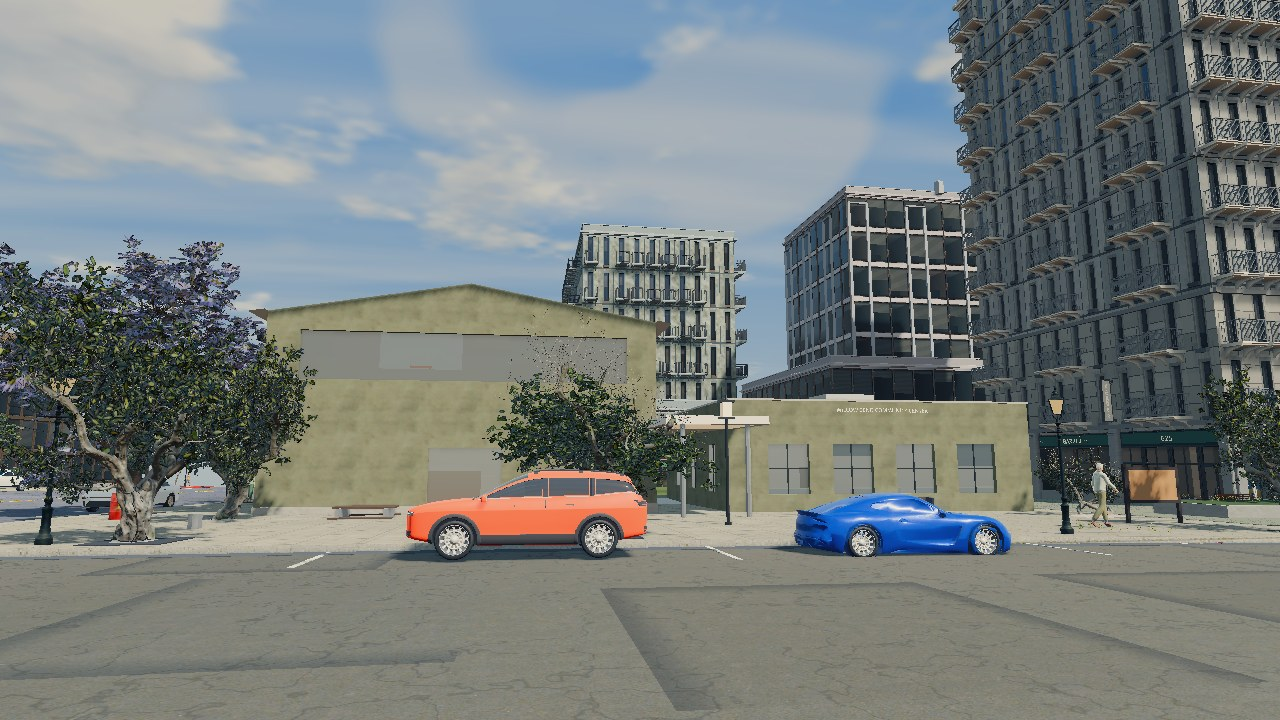
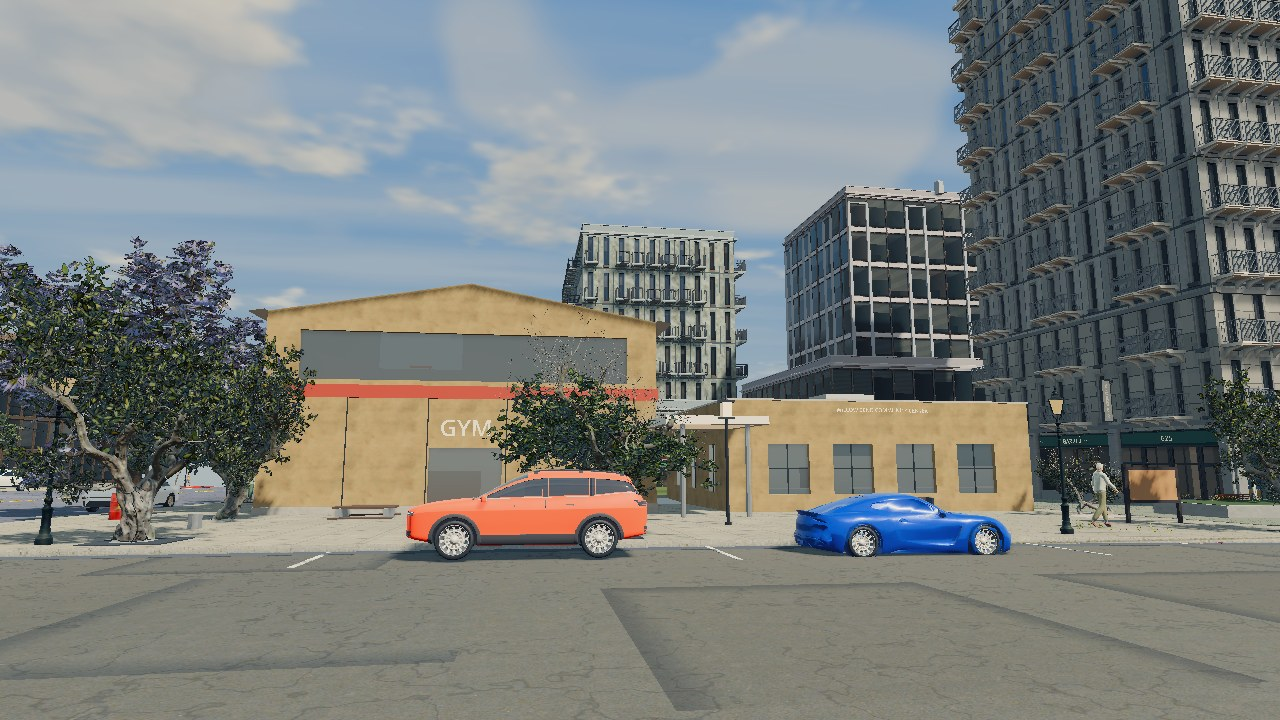
civic-buildings: tuned stills

diff --git a/README.md b/README.md
@@ -9,9 +9,10 @@ stills, seed 1337; the night ones use block_shot's crude NIGHT=1 lighting (not D
   the kerb by the blue collection boxes.
 - 06: the post office wide: brick front, flag, lawn, kerb truck.
 - 07: a mid-century branch library (glass pavilion, breeze block, stone name wall).
-- 08: a community centre (hall and wing).
+- 08 / 08b: a community centre (hall with its gable variant, wing, entry canopy) and from above.
 - 09 / 10: a city services office (pier colonnade, fins, flags) from the street and above.
 - 11 / 12 / 13: night (libraries close at 20:00: their rooms go dark but the lamps stay lit).
 
-03 and 07-10 were shot before a tuning pass (brighter stucco, darker day glass, trees off the
-modern library's glass front).
+02b, 07, 08, 08b and 09 are after a tuning pass (brighter stucco, darker day glass, trees off the
+modern library's glass front, the community hall's accent band and GYM letters); 03 and 10 are
+from before it. The office glass was darkened once more after these (not re-shot).
